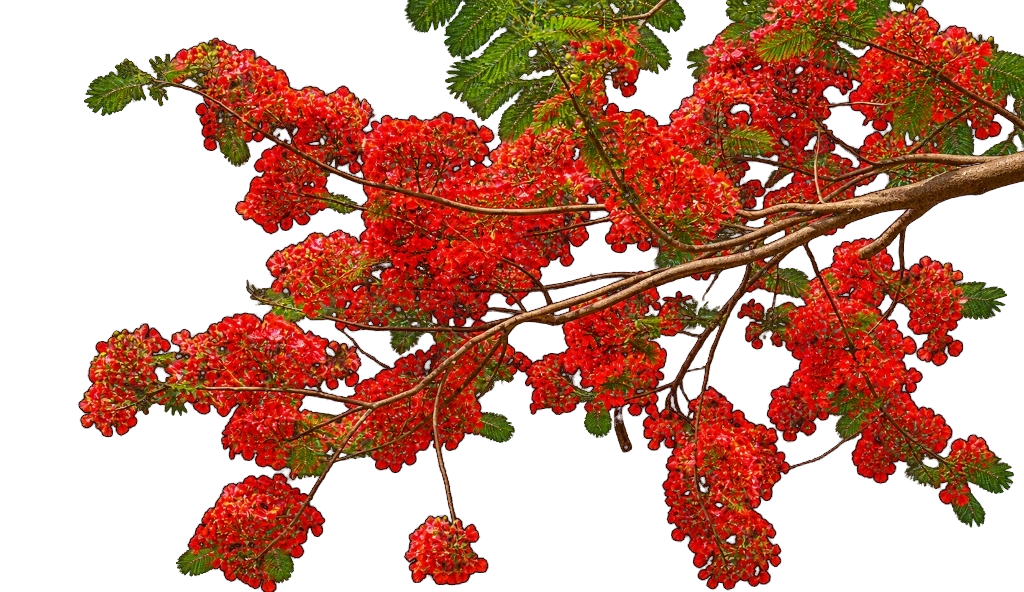
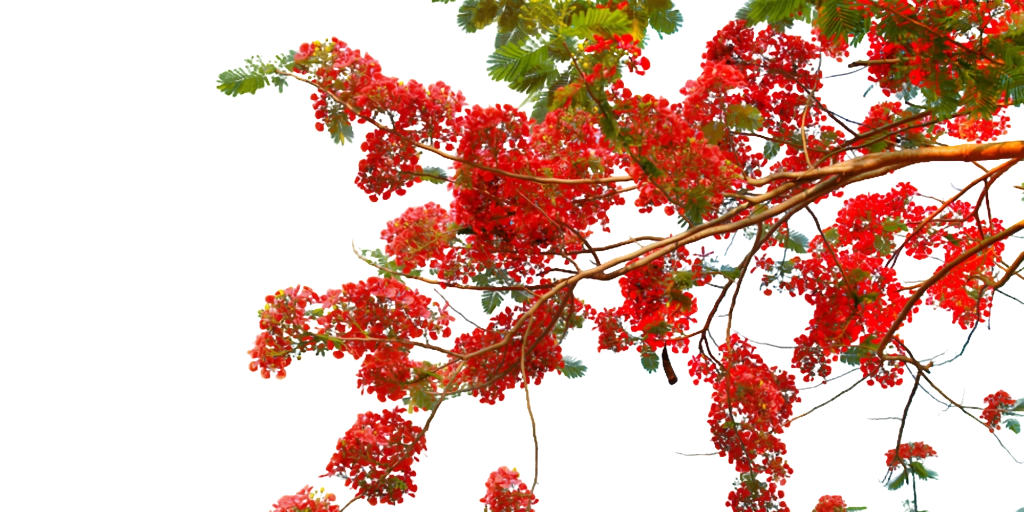
feat(hero): replace poinciana branch with user's newly uploaded high-res vibrant branch

diff --git a/index.html b/index.html
@@ -54,7 +54,7 @@
         <div class="hero-backdrop-overlay"></div>
         <!-- CÂY PHƯỢNG VĨ MÙA THI Ở BÊN PHẢI (Ảnh 1) -->
         <div class="hero-poinciana-wrap" id="hero-poinciana-wrap">
-          <img class="hero-poinciana-branch" src="assets/kiyoedu-poinciana-branch.webp" alt="Cành hoa phượng vĩ KiyoEdu" width="1024" height="592" fetchpriority="high">
+          <img class="hero-poinciana-branch" src="assets/kiyoedu-poinciana-branch.webp" alt="Cành hoa phượng vĩ KiyoEdu" width="1024" height="512" fetchpriority="high">
         </div>
       </div>
 
